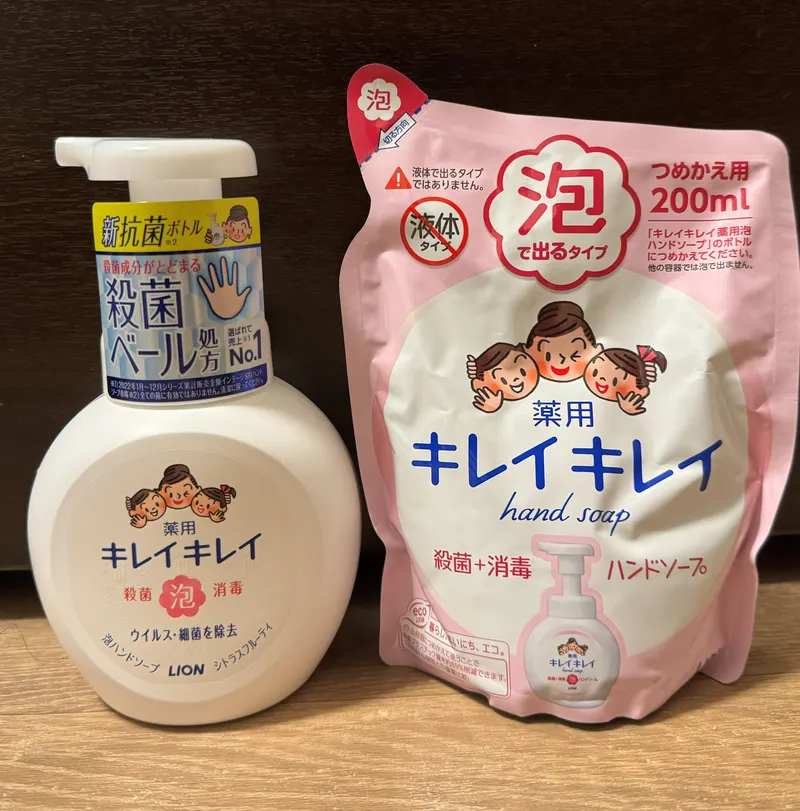
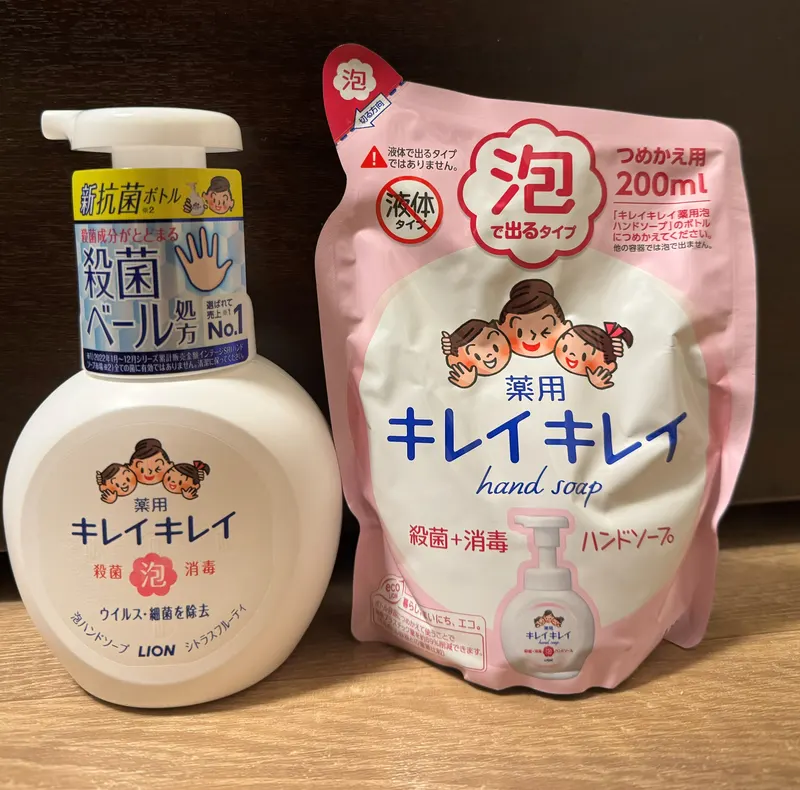
kireikirei-vs-biore の独自画像を撮り直し版に差し替え
IMG_3471/IMG_3472 で撮り直した写真に差し替え。被写体に寄った構図で
余白が減り、つめかえのアップは「他の容器では泡で出ません」の但し書きまで
読めるようになった。寸法変更に伴い img の width/height も更新。

diff --git a/src/content/articles/kireikirei-vs-biore-comparison.md b/src/content/articles/kireikirei-vs-biore-comparison.md
@@ -265,7 +265,7 @@ faqs:
 すでに液体ポンプを使っていて容器を替えたくない場合や、泡ポンプの詰まりが煩わしいと感じている場合は、液体ラインが揃っているキレイキレイのほうが移行しやすくなります。逆に子どもの手洗い習慣を優先するなら、泡で統一されているビオレuは選択に迷いが出ません。
 
 <figure>
-  <img src="/images/articles/kireikirei-vs-biore/kireikirei-bottle-refill.webp" width="800" height="811" loading="lazy" decoding="async" alt="キレイキレイ薬用泡ハンドソープの本体ボトルと、つめかえ用200mLのパウチを並べて撮影した写真" />
+  <img src="/images/articles/kireikirei-vs-biore/kireikirei-bottle-refill.webp" width="800" height="790" loading="lazy" decoding="async" alt="キレイキレイ薬用泡ハンドソープの本体ボトルと、つめかえ用200mLのパウチを並べて撮影した写真" />
   <figcaption>左が泡タイプの本体ボトル、右がつめかえ用200mL。泡タイプはポンプの構造が液体用と別物です</figcaption>
 </figure>
 
@@ -284,7 +284,7 @@ faqs:
 - 泡タイプの詰め替えは、必ず泡ポンプ対応の本体容器に入れる（液体用容器では泡にならない）
 
 <figure>
-  <img src="/images/articles/kireikirei-vs-biore/kireikirei-refill-foam-only.webp" width="800" height="415" loading="lazy" decoding="async" alt="キレイキレイ泡ハンドソープつめかえ用のパッケージ上部。液体で出るタイプではありませんという注意書きが印刷されている" />
+  <img src="/images/articles/kireikirei-vs-biore/kireikirei-refill-foam-only.webp" width="800" height="324" loading="lazy" decoding="async" alt="キレイキレイ泡ハンドソープつめかえ用のパッケージ上部。液体で出るタイプではありませんという注意書きが印刷されている" />
   <figcaption>つめかえパッケージの上部。「液体で出るタイプではありません」と明記されている</figcaption>
 </figure>
 
